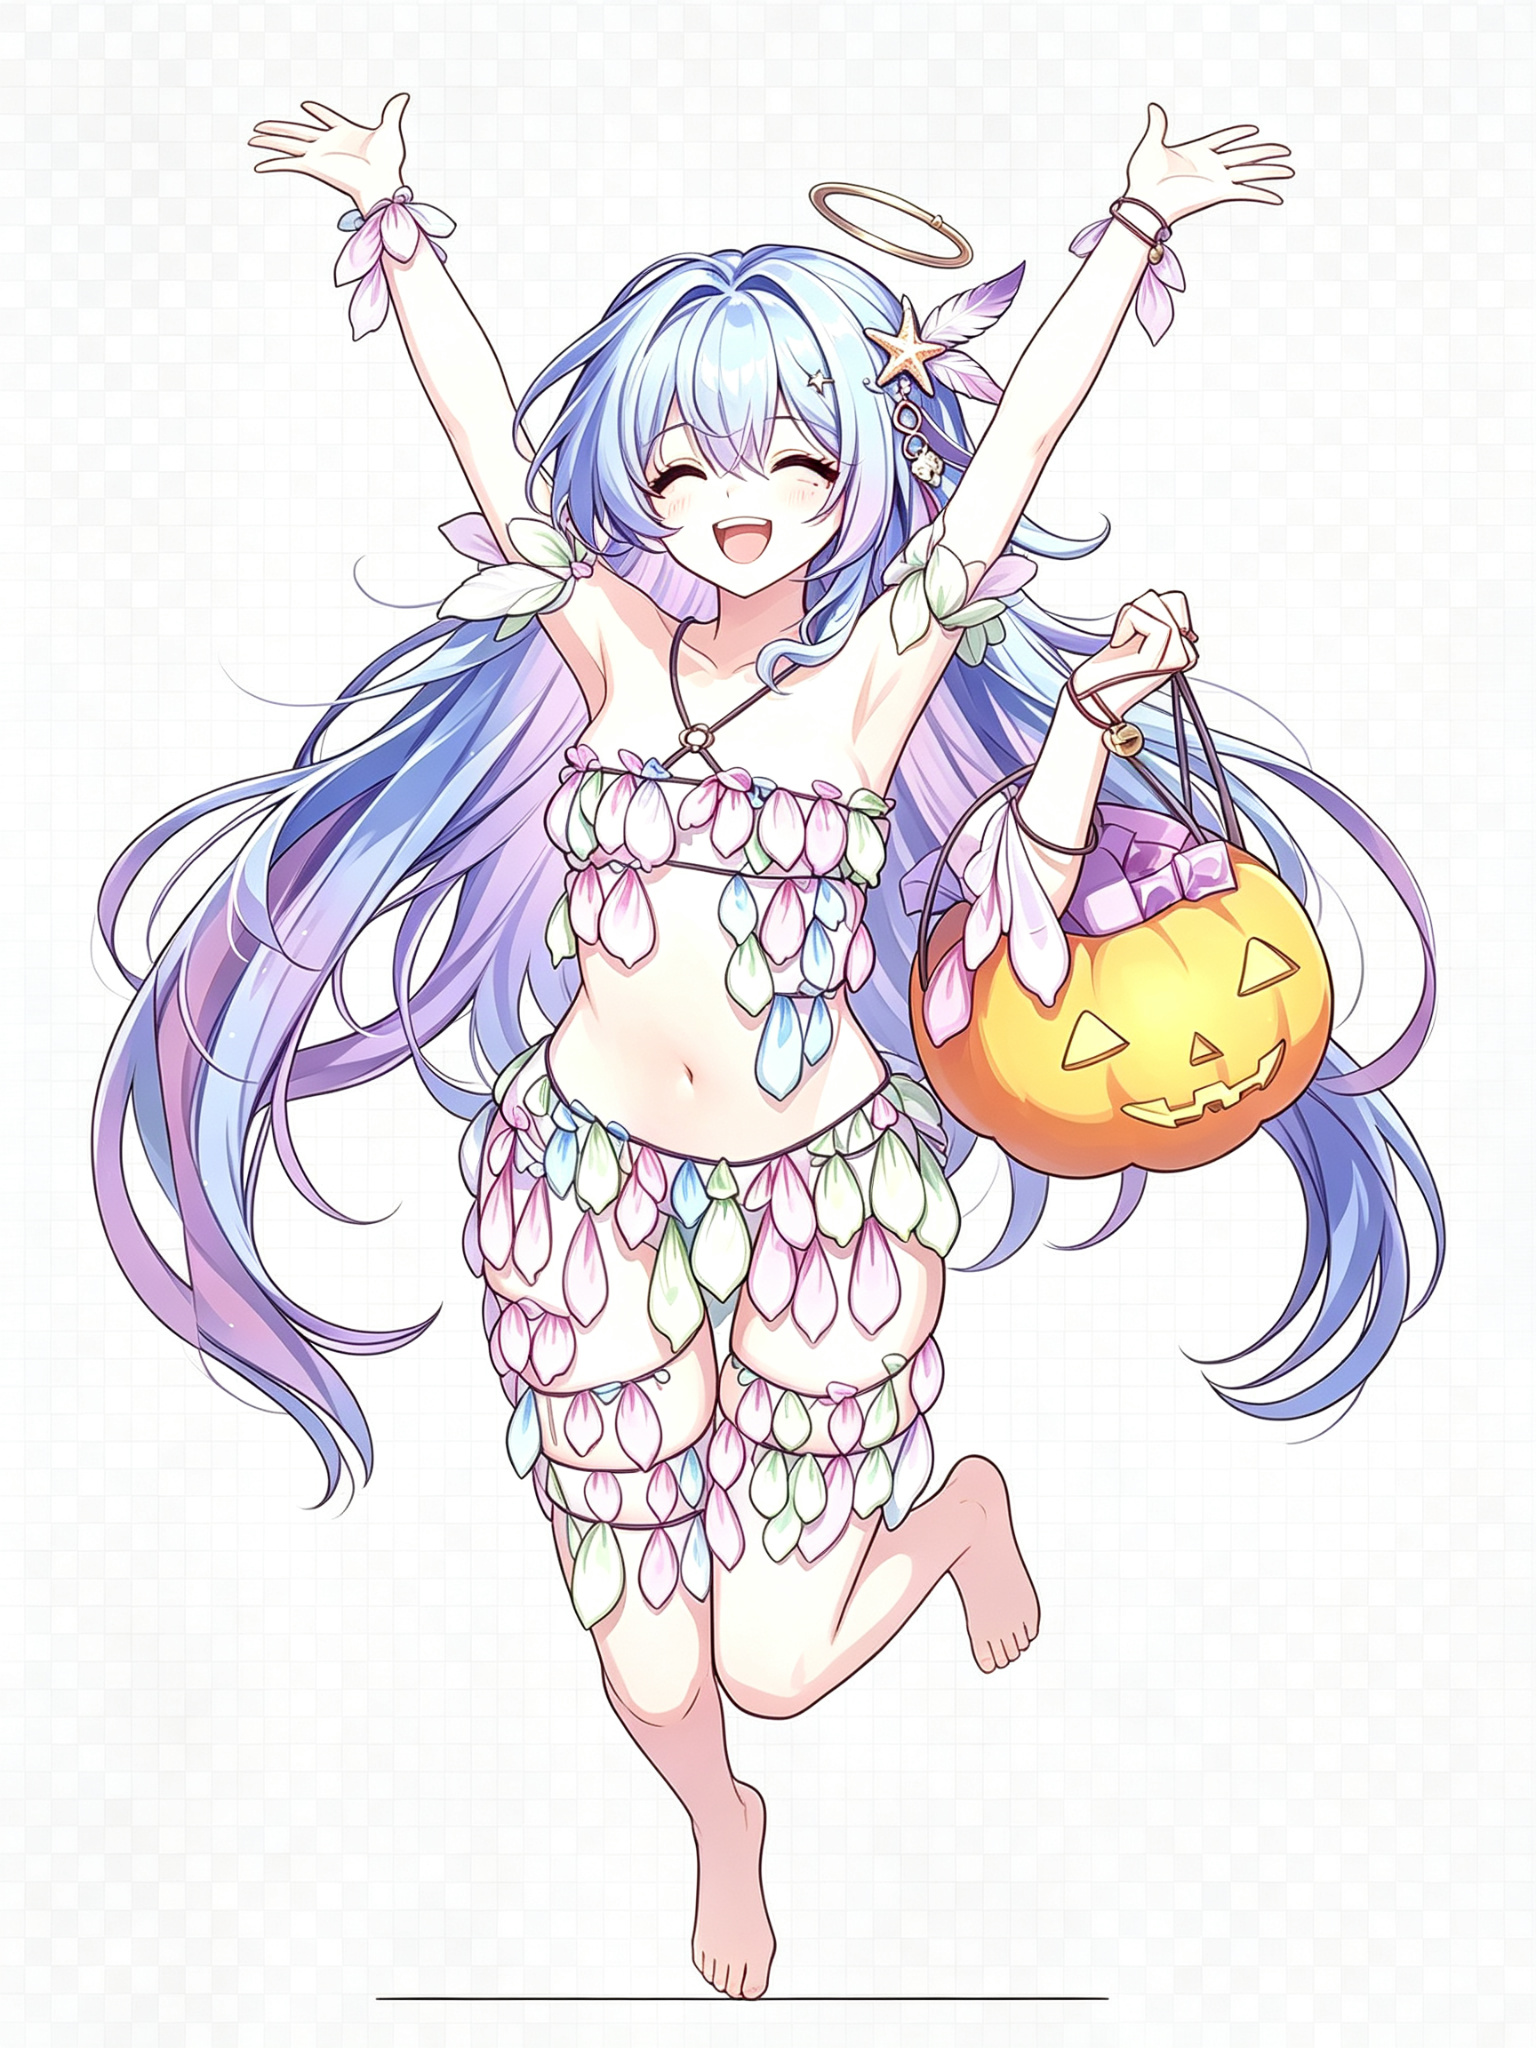
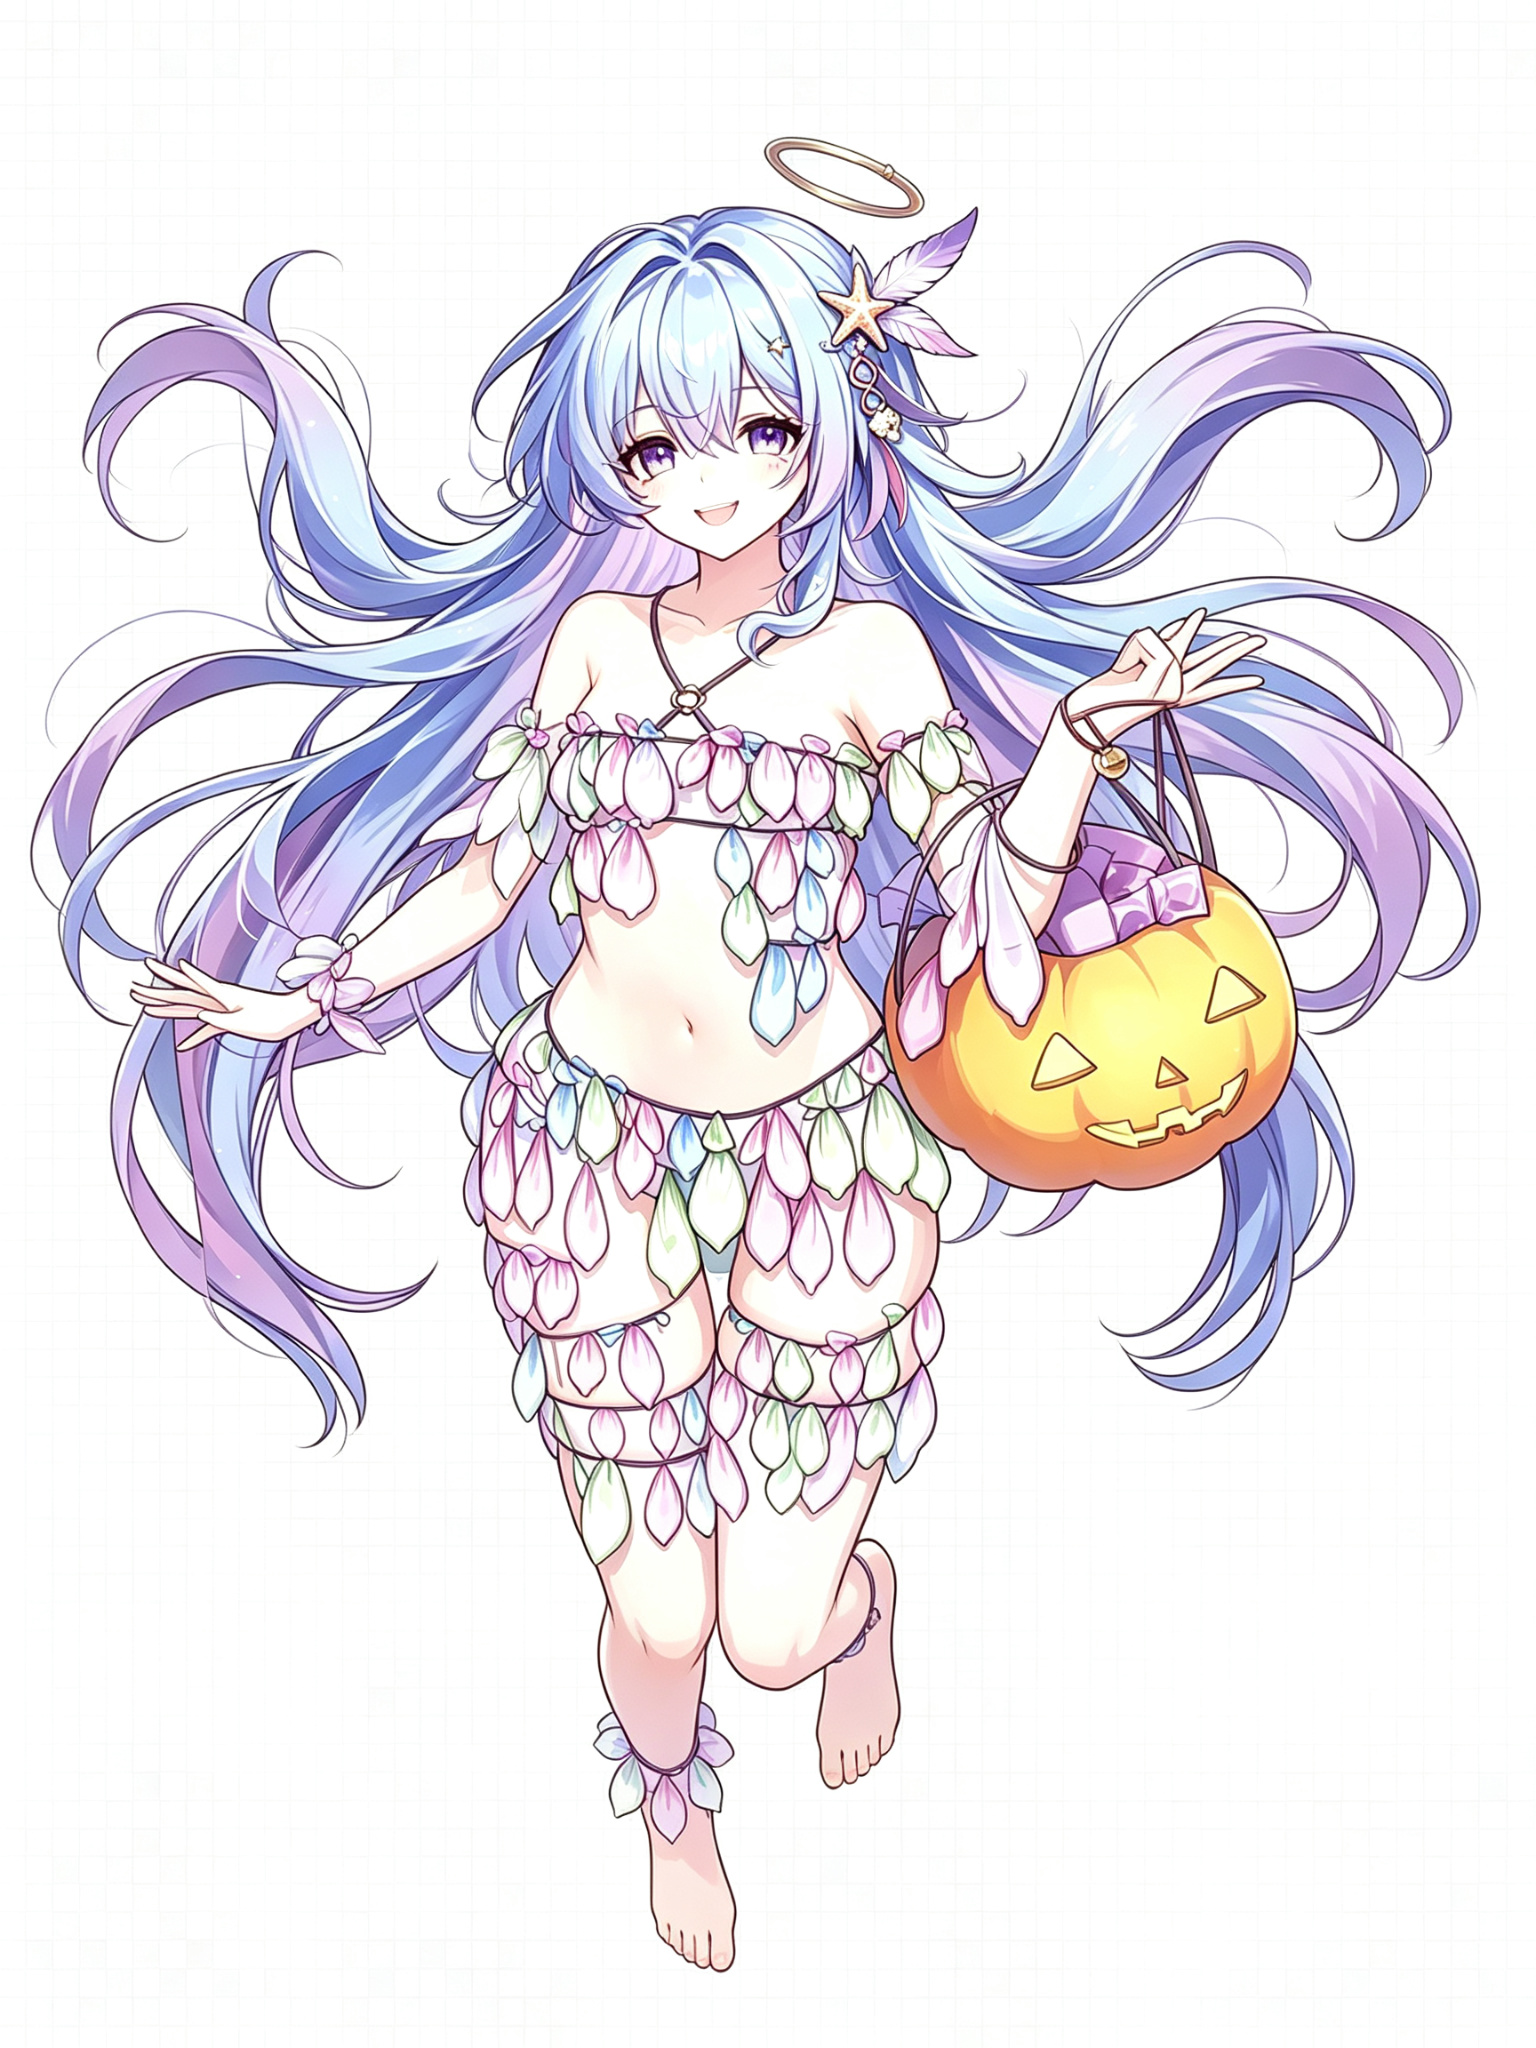
refactor(preprocess): 移除预处理底部横线与脚底地面线清除
preprocess-v7 -gpu.py / preprocess-v7-cpu.py:
- 删除 remove_connected_white_bg（底部横线）与 remove_bottom_ground_line（地面线/脚底阴影带）函数定义及调用
- process_image 步骤重排：仅保留 保护色 -> 最大连通块 -> 清边缘2px
- 同步脚本头部注释（去'清底线/底部横线清除'）

同时提交本会话累积的未提交改动：
- taozi-pet/src/main.ts: walk 挡位表 + walk durationMs:0（动画循环至移动结束）、peek 边缘吸附判定（方向性 + 精灵基准贴边触发）、一次性状态门控复位(scheduleStateReset)、movePetWindow 钉尺寸
- taozi-pet/src/main/drag.ts: snapBounds 方向性吸附（处理过冲悬空）
- README.md: 随机行走表同步
- assets-raw: happy/notify 帧素材更新

diff --git a/taozi-pet/src/main.ts b/taozi-pet/src/main.ts
@@ -53,9 +53,9 @@ const RANDOM_WALK_FRAME_MS = 16; // 约60fps
 const RANDOM_WALK_LEVELS: Array<{ range: number; intervalMin: number; intervalMax: number; distMin: number; distMax: number } | null> = [
   null,
   { range: 220, intervalMin: 14000, intervalMax: 30000, distMin: 60, distMax: 140 }, // 1 散步
-  { range: 320, intervalMin: 8000, intervalMax: 25000, distMin: 120, distMax: 260 }, // 2 正常
-  { range: 420, intervalMin: 4500, intervalMax: 14000, distMin: 200, distMax: 340 }, // 3 活泼
-  { range: 520, intervalMin: 2500, intervalMax: 7500, distMin: 300, distMax: 440 },  // 4 多动症
+  { range: 320, intervalMin: 10000, intervalMax: 20000, distMin: 120, distMax: 260 }, // 2 正常
+  { range: 400, intervalMin: 6000, intervalMax: 14000, distMin: 200, distMax: 320 },  // 3 活泼
+  { range: 480, intervalMin: 4000, intervalMax: 12000, distMin: 300, distMax: 400 },  // 4 多动症
 ];
 const SLEEP_TRIGGER_MS = 3 * 60 * 1000; // 3分钟无互动触发睡觉
 const MOOD_SAD_THRESHOLD = 25; // 心情低于25触发sad
@@ -382,7 +382,9 @@ function randomWalkStep(): void {
 
   // 触发 walk 动画：向右或向下移动时左右镜像
   const walkMirror = direction === 1 || direction === 3; // 下或右
-  sendActivity({ kind: 'ambient', stateId: 'walk', mirror: walkMirror });
+  // durationMs:0 让渲染层把 walk 视为无限循环状态（见 PetStateMachine.durationFor 的 requested===0 分支），
+  // 在物理移动结束前持续循环播放 walk 动画，避免只播一轮（3s）就静止；移动结束时由下方发 idle 收尾。
+  sendActivity({ kind: 'ambient', stateId: 'walk', mirror: walkMirror, durationMs: 0 });
   // 注意：此处【不】调用 resetActivityTimer()。睡觉计时只允许被用户主动动作重置
   // （互动 / 拖动 / 开发者面板点击）；随机行走是自动行为，不应推迟入睡。
 
@@ -994,10 +996,28 @@ function registerIpc(): void {
     assertSender(event, ['pet']);
     if (!petWindow || !dragSession) return;
     dragSession = undefined;
-    if (settings.edgeSnap) {
-      const point = screen.getCursorScreenPoint();
-      const workArea = screen.getDisplayNearestPoint(point).workArea;
-      const snapped = snapBounds(petWindow.getBounds(), workArea);
+    const original = petWindow.getBounds();
+    // 用桌宠中心（而非松手光标）选显示器/工作区，避免 drag-end 时光标跨屏边界导致选错 workArea
+    const center = { x: original.x + original.width / 2, y: original.y + original.height / 2 };
+    const workArea = screen.getDisplayNearestPoint(center).workArea;
+    // 边缘判定：用户把桌宠拖到屏幕左右边缘松手即触发 peek。
+    // 抓取点常在角色中心，光标顶到屏边时窗口会过冲约半个身位（悬在屏外，bounds.x 为负或右缘超出屏缘），
+    // 因此用「窗口左右缘到达/越过屏缘」的方向性判断 + 「松手光标距屏缘 ≤50px」双重信号，
+    // 替换原先 abs(窗口缘-屏缘)<20 的写法（窗口过冲时差值>20，会漏判导致左右都不触发）。
+    const cursor = screen.getCursorScreenPoint();
+    const SNAP_THRESHOLD = 20;
+    const CURSOR_EDGE_BAND = 50;
+    const atLeft = original.x <= workArea.x + SNAP_THRESHOLD
+      || cursor.x <= workArea.x + CURSOR_EDGE_BAND;
+    const atRight = original.x + original.width >= workArea.x + workArea.width - SNAP_THRESHOLD
+      || cursor.x >= workArea.x + workArea.width - CURSOR_EDGE_BAND;
+    const atEdge = atLeft || atRight;
+    if (settings.edgeSnap && atEdge) {
+      // 以精灵为基准贴边：窗口比精灵宽(气泡区最小宽 PET_BUBBLE_ZONE_WIDTH)时精灵水平居中，
+      // 须扣除居中偏移 spriteInset，否则吸附后精灵仍停在离屏边 (windowWidth - spriteWidth)/2 处。
+      const spriteSize = petSize();
+      const spriteInset = (Math.max(spriteSize, PET_BUBBLE_ZONE_WIDTH) - spriteSize) / 2;
+      const snapped = snapBounds(original, workArea, spriteInset, spriteSize);
       petWindow.setBounds(snapped, true);
       const state = stateForTrigger('window:edge-snap');
       // 用 snapBounds 的计算结果判断右侧，避免 setBounds 动画导致 getBounds 延迟

diff --git a/taozi-pet/src/main/drag.ts b/taozi-pet/src/main/drag.ts
@@ -27,18 +27,23 @@ export function draggedBounds(startBounds: Rect, startCursor: Point, currentCurs
   };
 }
 
-export function snapBounds(bounds: Rect, workArea: Rect): Rect {
-  const snapThreshold = 20;
+export function snapBounds(bounds: Rect, workArea: Rect, spriteInset = 0, spriteWidth = bounds.width): Rect {
+  const snapBand = 20;
   let { x } = bounds;
   const { y } = bounds;
+  const workRight = workArea.x + workArea.width;
 
-  // 左边贴边
-  if (Math.abs(bounds.x - workArea.x) < snapThreshold) {
-    x = workArea.x;
+  // 以【精灵】(而非整窗)为基准贴边：窗口比精灵宽时精灵在窗口内水平居中，
+  // 精灵左缘相对窗口左缘有 spriteInset 偏移，故吸附目标需把窗口往屏外多移 spriteInset，
+  // 让精灵左右缘正好落在 workArea 左右缘（窗口可透明过冲到屏外，不影响显示）。
+  // 用方向性判断（≤ / ≥）而非 abs 差值，才能把因拖拽抓取点在角色中心、
+  // 光标顶到屏边时过冲到屏外（bounds.x 为负）的窗口正确判定为贴边。
+  if (bounds.x <= workArea.x + snapBand) {
+    x = workArea.x - spriteInset;
   }
-  // 右边贴边
-  if (Math.abs(bounds.x + bounds.width - (workArea.x + workArea.width)) < snapThreshold) {
-    x = workArea.x + workArea.width - bounds.width;
+  // 右边贴边：使精灵右缘落在 workArea 右缘
+  else if (bounds.x + bounds.width >= workRight - snapBand) {
+    x = workRight - spriteWidth - spriteInset;
   }
   // 上下边缘不吸附，仅左右
 

diff --git a/preprocess-v7-cpu.py b/preprocess-v7-cpu.py
@@ -2,7 +2,7 @@
 CPU 抠白底（v7 洪水填充算法）：assets-raw/ → taozi-pet/incoming-assets/（透明 PNG）
 
 仅从左/右/上边缘发起洪水填充（下方不发起，保护脚底），叠加保护色障碍物、
-底部横线清除、最大连通块保留。仅作最后手段（GPU 版为默认）。
+最大连通块保留。仅作最后手段（GPU 版为默认）。
 
 用法:
   python preprocess-v7-cpu.py                    # 处理非 matted 的 8 个状态
@@ -54,71 +54,6 @@ def flood_fill_from_edges(arr, alpha, protected=None):
         return np.zeros((h, w), dtype=bool)
     return np.isin(labeled, list(edge_labels))
 
-def remove_connected_white_bg(arr, alpha, protected=None):
-    """清除与主体连通的底部横线（贴近画布底部的横向宽条）。
-    不做"双腿间白色"清除——角色白色花瓣/浅色头发与背景白 RGB 相同，无法区分，
-    强行删除会误伤主体；若存在应在 src 阶段处理。
-    """
-    from scipy import ndimage
-    h, w = alpha.shape
-    if protected is None:
-        protected = get_protected_mask(arr, alpha)
-    bg_ref = arr[0, 0].astype(int)
-    r = arr[:, :, 0].astype(int)
-    g = arr[:, :, 1].astype(int)
-    b = arr[:, :, 2].astype(int)
-    dist = np.sqrt((r - bg_ref[0])**2 + (g - bg_ref[1])**2 + (b - bg_ref[2])**2)
-    near_bg = (dist < BG_THRESHOLD) & (alpha > 16) & ~protected
-
-    # 连通块标记（scipy 向量化，替代 Python BFS）
-    labeled, num = ndimage.label(near_bg)
-    if num == 0:
-        return alpha
-    # 每个连通块的边界框
-    sl = ndimage.find_objects(labeled)
-    delete = np.zeros((h, w), dtype=bool)
-    for lab in range(1, num + 1):
-        obj = sl[lab - 1]
-        if obj is None:
-            continue
-        top, bot = obj[0].start, obj[0].stop - 1
-        left, right = obj[1].start, obj[1].stop - 1
-        hb, wb = bot - top + 1, right - left + 1
-        size = int((labeled[obj] == lab).sum())
-        if size < 30:
-            continue
-        # 仅删贴近画布底部的横向宽条（地面/阴影线）
-        if bot >= h - 15 and wb > w * 0.2 and wb >= hb:
-            delete |= (labeled == lab)
-
-    alpha[delete] = 0
-    return alpha
-
-def remove_bottom_ground_line(arr, alpha):
-    """删主体实际最底部的浅色横向地面线（如 happy-07 脚底 y=2000 mean=213 宽条）。
-    从主体 bbox 底部向上找第一个实体行（n>=15%宽）：
-      - 若该行平均色 >150（浅色，地面线/阴影带）→ 删除该行
-      - 若该行较深（<=150，如鞋底/裙摆）→ 保留，停止
-    """
-    h, w = alpha.shape
-    ys, xs = np.where(alpha > 16)
-    if not len(ys):
-        return alpha
-    y_bot = ys.max()
-    min_n = max(40, int(w * 0.15))
-    for y in range(y_bot, max(0, y_bot - 8), -1):
-        row = alpha[y, :] > 16
-        n = int(row.sum())
-        if n < min_n:
-            continue
-        rp = arr[y, row, :3]
-        mean = float(rp.mean())
-        if mean > 150:
-            alpha[y, row] = 0
-            print(f'    ground line cleared at y={y} n={n} mean={mean:.0f}')
-        break  # 找到主体底部实体行后即停（无论删否）
-    return alpha
-
 def keep_largest_connected(alpha):
     from scipy import ndimage
     h, w = alpha.shape
@@ -152,11 +87,7 @@ def process_image(input_path, output_path):
     # 1. 洪水填充（只从左/右/上边缘发起，删背景）
     delete_mask = flood_fill_from_edges(arr, alpha, protected)
     alpha[delete_mask] = 0
-    # 2. 去除与主体连通的底部横线（贴画布底的近背景宽条）
-    alpha = remove_connected_white_bg(arr, alpha, protected)
-    # 3. 去除主体实际最底部的浅色地面线（脚底阴影带）
-    alpha = remove_bottom_ground_line(arr, alpha)
-    # 4. 保留中心最大连通块
+    # 2. 保留中心最大连通块
     alpha = keep_largest_connected(alpha)
 
     arr[:, :, 3] = alpha

diff --git a/preprocess-v7 -gpu.py b/preprocess-v7 -gpu.py
@@ -2,7 +2,7 @@
 GPU 抠白底：assets-raw/ → taozi-pet/incoming-assets/（透明 PNG，默认全量）
 
 用 BiRefNet 在 CUDA 上推理生成基础 alpha，再叠加 v7 后处理
-（保护色 / 清底线 / 最大连通块）保证 QA 兼容。无 GPU 时自动退 CPU。
+（保护色 / 最大连通块）保证 QA 兼容。无 GPU 时自动退 CPU。
 
 保护色对肤色区做 2px 膨胀，可挽回手部/高光边缘的浅色像素，
 避免 happy/starfish-wave 等挥手状态的手颜色被“洗掉”。
@@ -93,58 +93,6 @@ def get_protected_mask(arr, alpha):
     pumpkin = (r > 170) & (g > 110) & (b < 140) & ((r - b) > 70)
     return (skin | pumpkin) & (alpha > 16)
 
-def remove_connected_white_bg(arr, alpha, protected=None):
-    from scipy import ndimage
-    h, w = alpha.shape
-    if protected is None:
-        protected = get_protected_mask(arr, alpha)
-    bg_ref = arr[0, 0].astype(int)
-    r = arr[:, :, 0].astype(int)
-    g = arr[:, :, 1].astype(int)
-    b = arr[:, :, 2].astype(int)
-    dist = np.sqrt((r - bg_ref[0])**2 + (g - bg_ref[1])**2 + (b - bg_ref[2])**2)
-    near_bg = (dist < BG_THRESHOLD) & (alpha > 16) & ~protected
-
-    labeled, num = ndimage.label(near_bg)
-    if num == 0:
-        return alpha
-    sl = ndimage.find_objects(labeled)
-    delete = np.zeros((h, w), dtype=bool)
-    for lab in range(1, num + 1):
-        obj = sl[lab - 1]
-        if obj is None:
-            continue
-        top, bot = obj[0].start, obj[0].stop - 1
-        left, right = obj[1].start, obj[1].stop - 1
-        hb, wb = bot - top + 1, right - left + 1
-        size = int((labeled[obj] == lab).sum())
-        if size < 30:
-            continue
-        if bot >= h - 15 and wb > w * 0.2 and wb >= hb:
-            delete |= (labeled == lab)
-    alpha[delete] = 0
-    return alpha
-
-def remove_bottom_ground_line(arr, alpha):
-    h, w = alpha.shape
-    ys, xs = np.where(alpha > 16)
-    if not len(ys):
-        return alpha
-    y_bot = ys.max()
-    min_n = max(40, int(w * 0.15))
-    for y in range(y_bot, max(0, y_bot - 8), -1):
-        row = alpha[y, :] > 16
-        n = int(row.sum())
-        if n < min_n:
-            continue
-        rp = arr[y, row, :3]
-        mean = float(rp.mean())
-        if mean > 150:
-            alpha[y, row] = 0
-            print(f'    ground line cleared at y={y} n={n} mean={mean:.0f}')
-        break
-    return alpha
-
 def keep_largest_connected(alpha):
     from scipy import ndimage
     h, w = alpha.shape
@@ -191,14 +139,10 @@ def process_image(input_path, output_path):
     protected = ndimage.binary_dilation(protected, iterations=2)
     alpha[protected] = 255
 
-    # 3) 去除与主体连通的底部横线（贴画布底的近背景宽条）
-    alpha = remove_connected_white_bg(arr, alpha, protected)
-    # 4) 去除主体实际最底部的浅色地面线（脚底阴影带）
-    alpha = remove_bottom_ground_line(arr, alpha)
-    # 5) 保留中心最大连通块
+    # 3) 保留中心最大连通块
     alpha = keep_largest_connected(alpha)
 
-    # 6) 清理最边缘 2px 前景，避免 peek 等“贴边出场”状态触发 process-assets 的 SUBJECT_TOUCHES_BORDER。
+    # 4) 清理最边缘 2px 前景，避免 peek 等“贴边出场”状态触发 process-assets 的 SUBJECT_TOUCHES_BORDER。
     # 贴边帧的源图本身就切到画面外，留 2px 透明边不影响观感。
     border = 2
     alpha[:border, :] = 0
